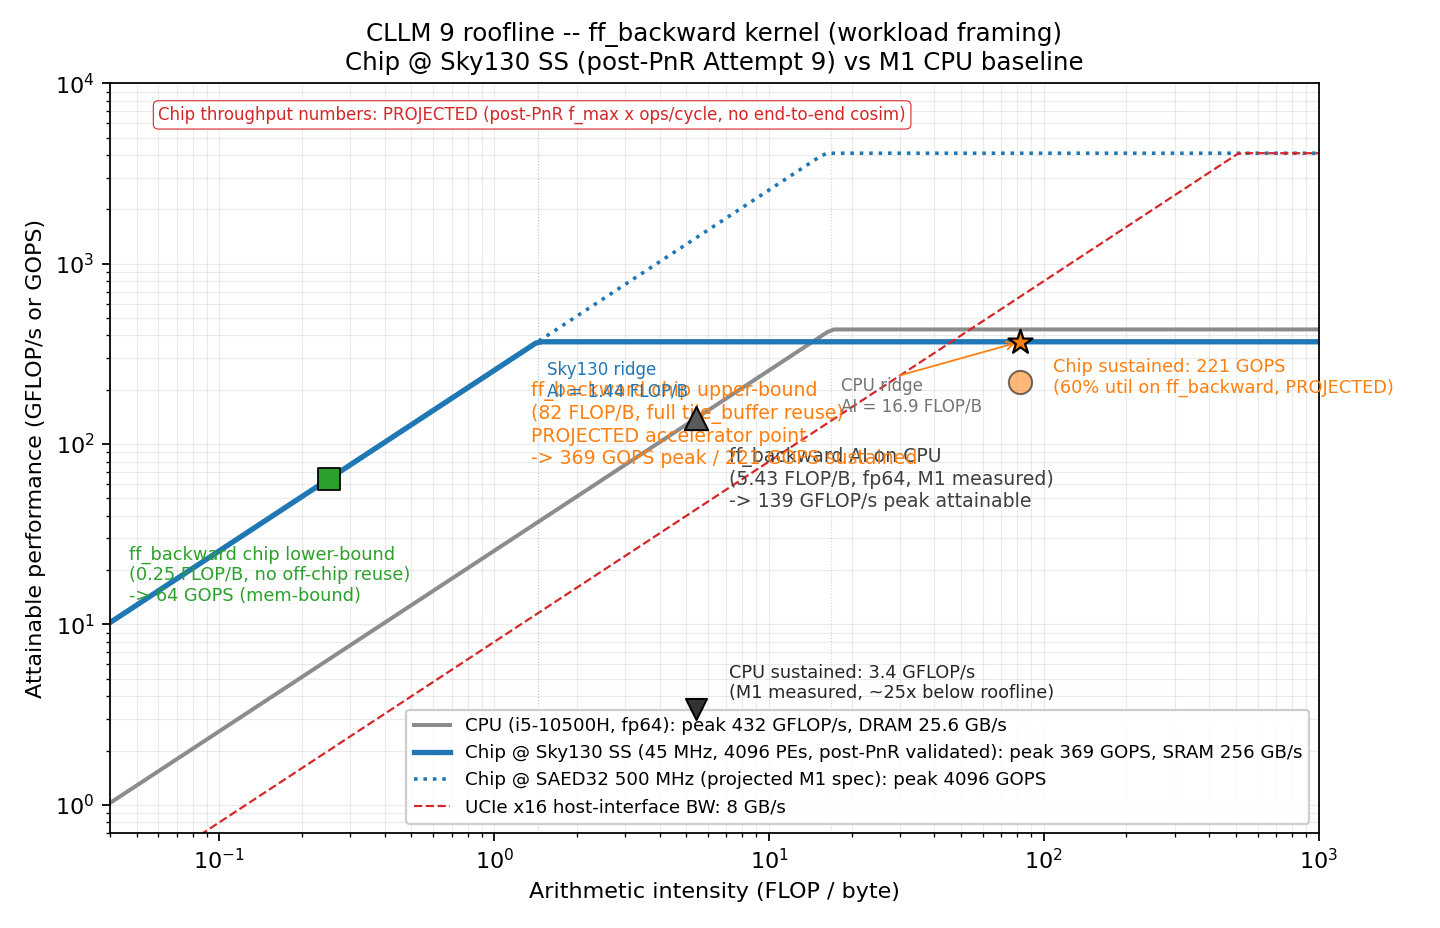
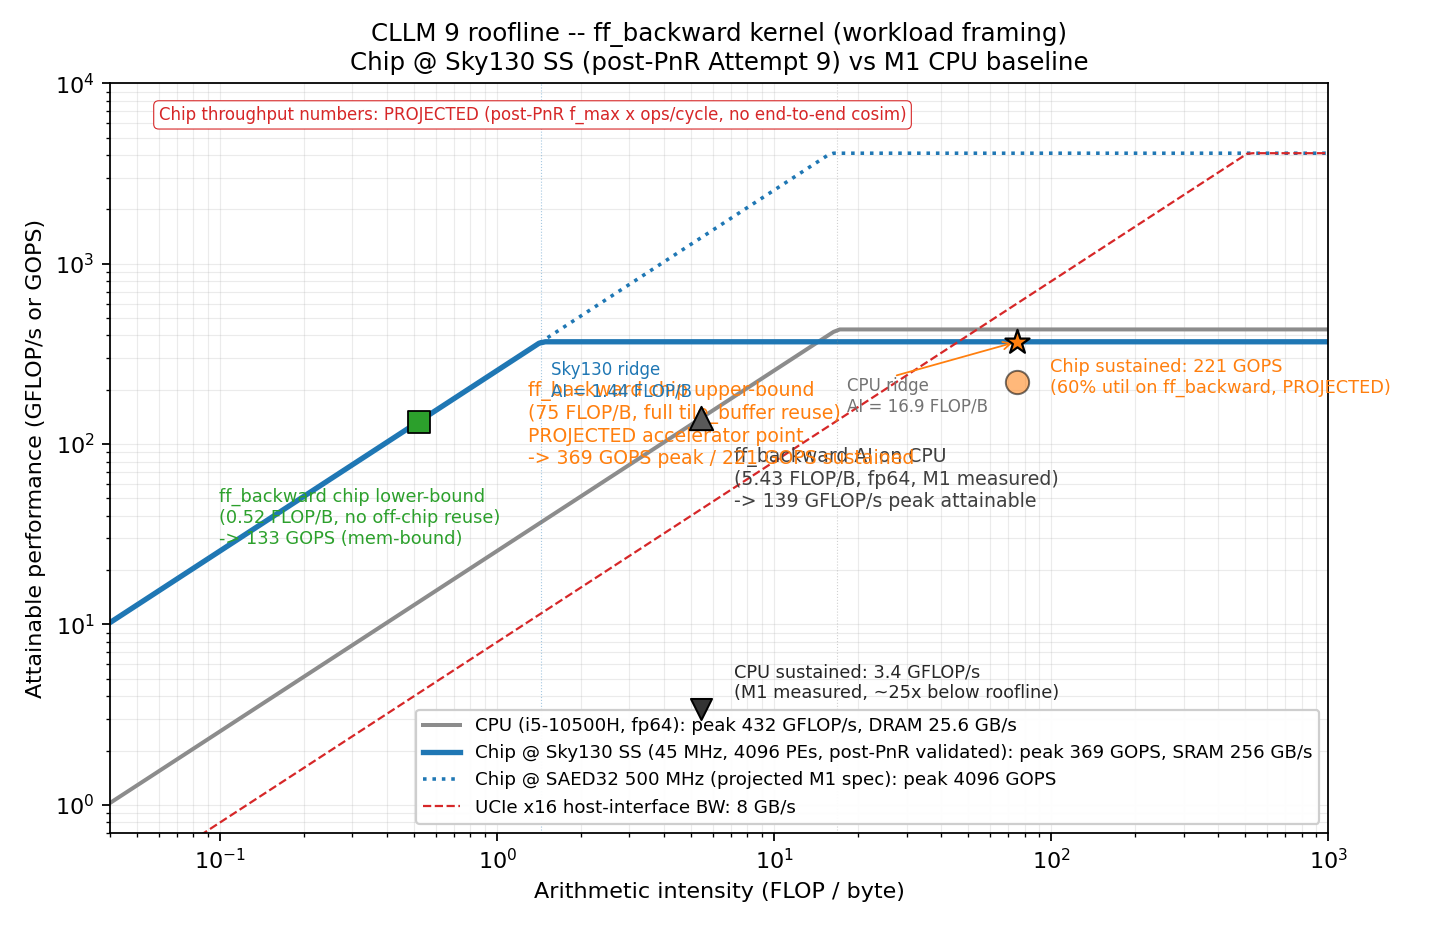
cf09 CLLM: correct ff_backward AI bounds (0.52 / 75 FLOP/B)
Previous numbers (0.25 / 82 FLOP/B) conflated two no-reuse formulations.
Corrected per-GEMM no-reuse byte count is (2*M*N*K + M*N) * 4 B and
per-GEMM full-reuse is (M*K + K*N + M*N) * 4 B; summed across the 4
ff_backward GEMMs at M1 dims plus the 256x256 element-wise GELU' multiply.

Net effect on conclusions: none. Chip still operates at the full-reuse
upper bound, still compute-bound (75 FLOP/B >> Sky130 ridge 1.44),
still at 369 GOPS ceiling. Memory-bound attainable at the lower bound
recomputes to 133 GOPS (was 64), which makes the mem-bound region a
less extreme boundary on the plot but doesn't change which region the
chip actually operates in.

Updates:
- benchmark_results.md: replace 0.25/82 -> 0.52/75 with the formula
- make_roofline.py: KERNEL_AI_CHIP_{NO,FULL}_REUSE constants updated;
  annotations regenerated to use the constants for self-consistency
- roofline_plot.png: re-rendered
- roofline_analysis.md: bound table updated with the new numbers + formula

Discovered while writing the (un-committed) cman_ai_analysis.md.

diff --git a/codefest/cf09/benchmarks/make_roofline.py b/codefest/cf09/benchmarks/make_roofline.py
@@ -49,8 +49,10 @@ ACC_SRAM_GBPS    = 256.0       # Heilmeier on-chip SRAM target
 ACC_UCIE_GBPS    = 8.0         # M1 interface_selection.md
 
 # ff_backward kernel AI on the chip (Q16.16, 4 B/element):
-KERNEL_AI_CHIP_NO_REUSE   = 0.25    # lower bound: every operand re-fetched
-KERNEL_AI_CHIP_FULL_REUSE = 82.0    # upper bound: tile_buffer holds intermediates
+# (2*M*N*K + M*N) * 4 B per GEMM no-reuse; (M*K + K*N + M*N) * 4 B full-reuse.
+# Summed over the 4 GEMMs + element-wise GELU' multiply across M1 dims.
+KERNEL_AI_CHIP_NO_REUSE   = 0.52    # lower bound: every operand re-fetched
+KERNEL_AI_CHIP_FULL_REUSE = 75.0    # upper bound: tile_buffer holds intermediates
 
 # Sustained accelerator throughput (post-PnR projection at 60% util):
 ACC_SUSTAINED_GOPS_SKY130 = 221.0   # Sky130 SS, full 64x64 spec
@@ -106,7 +108,8 @@ ax.annotate("CPU sustained: 3.4 GFLOP/s\n(M1 measured, ~25x below roofline)",
 chip_lower_y = min(ACC_SRAM_GBPS * KERNEL_AI_CHIP_NO_REUSE, ACC_PEAK_GOPS_SKY130_SS)
 ax.scatter([KERNEL_AI_CHIP_NO_REUSE], [chip_lower_y], s=100, marker="s",
            color="C2", zorder=6, edgecolor="black", lw=0.8)
-ax.annotate("ff_backward chip lower-bound\n(0.25 FLOP/B, no off-chip reuse)\n-> 64 GOPS (mem-bound)",
+chip_lower_attain = ACC_SRAM_GBPS * KERNEL_AI_CHIP_NO_REUSE
+ax.annotate(f"ff_backward chip lower-bound\n({KERNEL_AI_CHIP_NO_REUSE:.2f} FLOP/B, no off-chip reuse)\n-> {chip_lower_attain:.0f} GOPS (mem-bound)",
             (KERNEL_AI_CHIP_NO_REUSE, chip_lower_y),
             xytext=(-90, -55), textcoords="offset points", fontsize=8, color="C2")
 
@@ -114,7 +117,7 @@ ax.annotate("ff_backward chip lower-bound\n(0.25 FLOP/B, no off-chip reuse)\n-> 
 chip_upper_y = min(ACC_SRAM_GBPS * KERNEL_AI_CHIP_FULL_REUSE, ACC_PEAK_GOPS_SKY130_SS)
 ax.scatter([KERNEL_AI_CHIP_FULL_REUSE], [chip_upper_y], s=130, marker="*",
            color="C1", zorder=7, edgecolor="black", lw=1.0)
-ax.annotate("ff_backward chip upper-bound\n(82 FLOP/B, full tile_buffer reuse)\nPROJECTED accelerator point\n-> 369 GOPS peak / 221 GOPS sustained",
+ax.annotate(f"ff_backward chip upper-bound\n({KERNEL_AI_CHIP_FULL_REUSE:.0f} FLOP/B, full tile_buffer reuse)\nPROJECTED accelerator point\n-> {ACC_PEAK_GOPS_SKY130_SS:.0f} GOPS peak / {ACC_SUSTAINED_GOPS_SKY130:.0f} GOPS sustained",
             (KERNEL_AI_CHIP_FULL_REUSE, chip_upper_y),
             xytext=(-220, -55), textcoords="offset points", fontsize=8.5, color="C1",
             arrowprops=dict(arrowstyle="->", color="C1", lw=0.8))

diff --git a/codefest/cf09/benchmarks/benchmark_results.md b/codefest/cf09/benchmarks/benchmark_results.md
@@ -95,14 +95,20 @@ overlapping with every cycle of the GEMM streams.
 
 Same kernel, different precision (Q16.16 = 4 B/element vs fp64 = 8 B/element)
 and different memory hierarchy (chip's on-chip `tile_buffer` provides
-within-tile reuse the CPU doesn't have):
+within-tile reuse the CPU doesn't have).
+
+Per-GEMM no-reuse byte cost = `(2·M·N·K + M·N) × 4 B` (each input
+element re-fetched per use; output written once). Per-GEMM full-reuse
+byte cost = `(M·K + K·N + M·N) × 4 B` (each input loaded once, output
+written once). Summed across the 4 ff_backward GEMMs + the element-wise
+GELU' multiply:
 
 ```
-Chip no-reuse lower bound : 33.7 MFLOP / 135 MB ≈ 0.25 FLOP/B
-Chip full-reuse upper bound: 33.7 MFLOP / 410 KB ≈ 82 FLOP/B
+Chip no-reuse lower bound : 33.7 MFLOP / 65 MB  ≈ 0.52 FLOP/B
+Chip full-reuse upper bound: 33.7 MFLOP / 448 KB ≈ 75   FLOP/B
 ```
 
-The chip operates at the **full-reuse upper bound (~82 FLOP/B)** because
+The chip operates at the **full-reuse upper bound (~75 FLOP/B)** because
 `tile_buffer` is exactly architected for this; per the Sky130 roofline
 ridge of 1.44 FLOP/B, this puts the chip squarely in the **compute-bound
 region** — adding off-chip bandwidth gains nothing, only compute does.

diff --git a/codefest/cf09/benchmarks/roofline_analysis.md b/codefest/cf09/benchmarks/roofline_analysis.md
@@ -18,12 +18,14 @@ on CPU (LayerNorm, residual, embedding lookup, optimizer step).
 ## Where the chip landed on its roofline
 
 Two ff_backward AI bounds at the chip's chiplet-interface boundary,
-Q16.16 (4 B/element) precision:
+Q16.16 (4 B/element) precision. Per-GEMM no-reuse byte count =
+`(2·M·N·K + M·N) × 4 B`; per-GEMM full-reuse = `(M·K + K·N + M·N) × 4 B`;
+summed over the 4 GEMMs + element-wise GELU' multiply:
 
 | Bound | AI | Where on chip's roofline |
 |---|---:|---|
-| no-reuse lower (every operand re-fetched per use) | 0.25 FLOP/B | **memory-bound** at 64 GOPS (well below 1.44 ridge) |
-| full-reuse upper (`tile_buffer` holds intermediates) | 82 FLOP/B | **compute-bound** at 369 GOPS ceiling (well above ridge) |
+| no-reuse lower (every operand re-fetched per use) | **0.52 FLOP/B** | **memory-bound** at 133 GOPS (well below 1.44 ridge) |
+| full-reuse upper (`tile_buffer` holds intermediates) | **75 FLOP/B** | **compute-bound** at 369 GOPS ceiling (well above ridge) |
 
 The chip's `tile_buffer` architecture is designed exactly for the
 full-reuse case: each of X, W₁, W₂, dy loads from off-chip exactly once